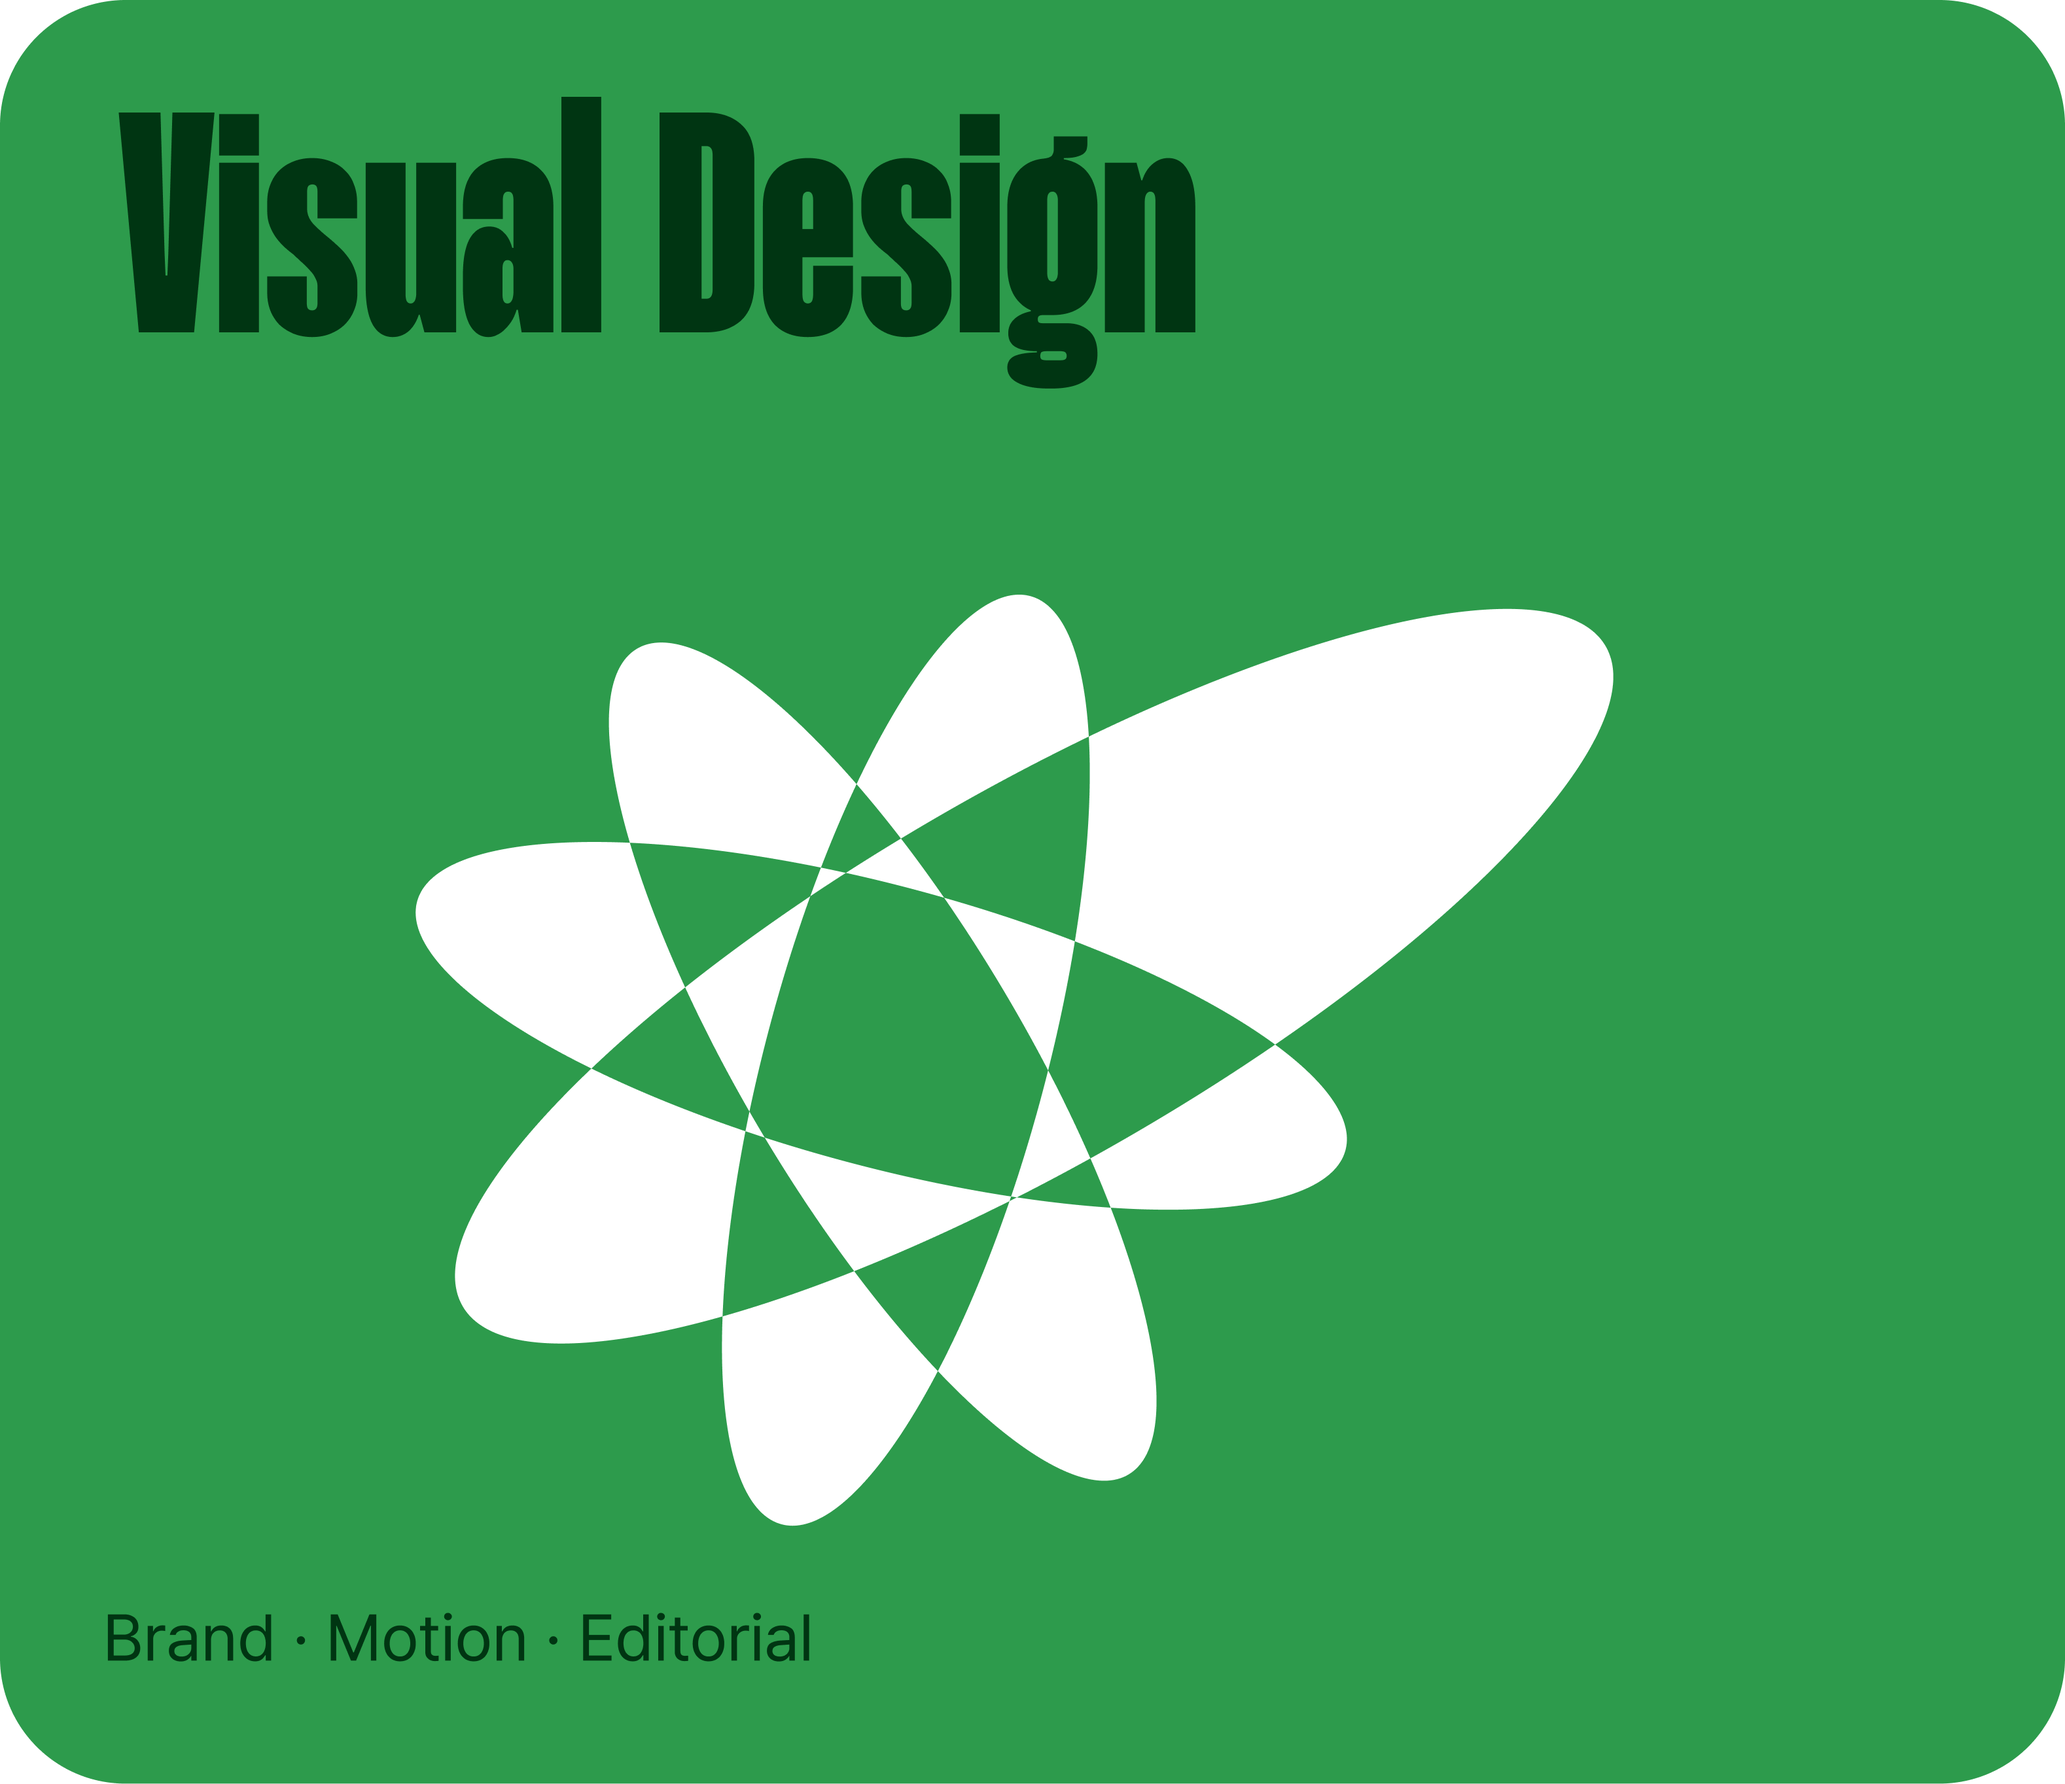
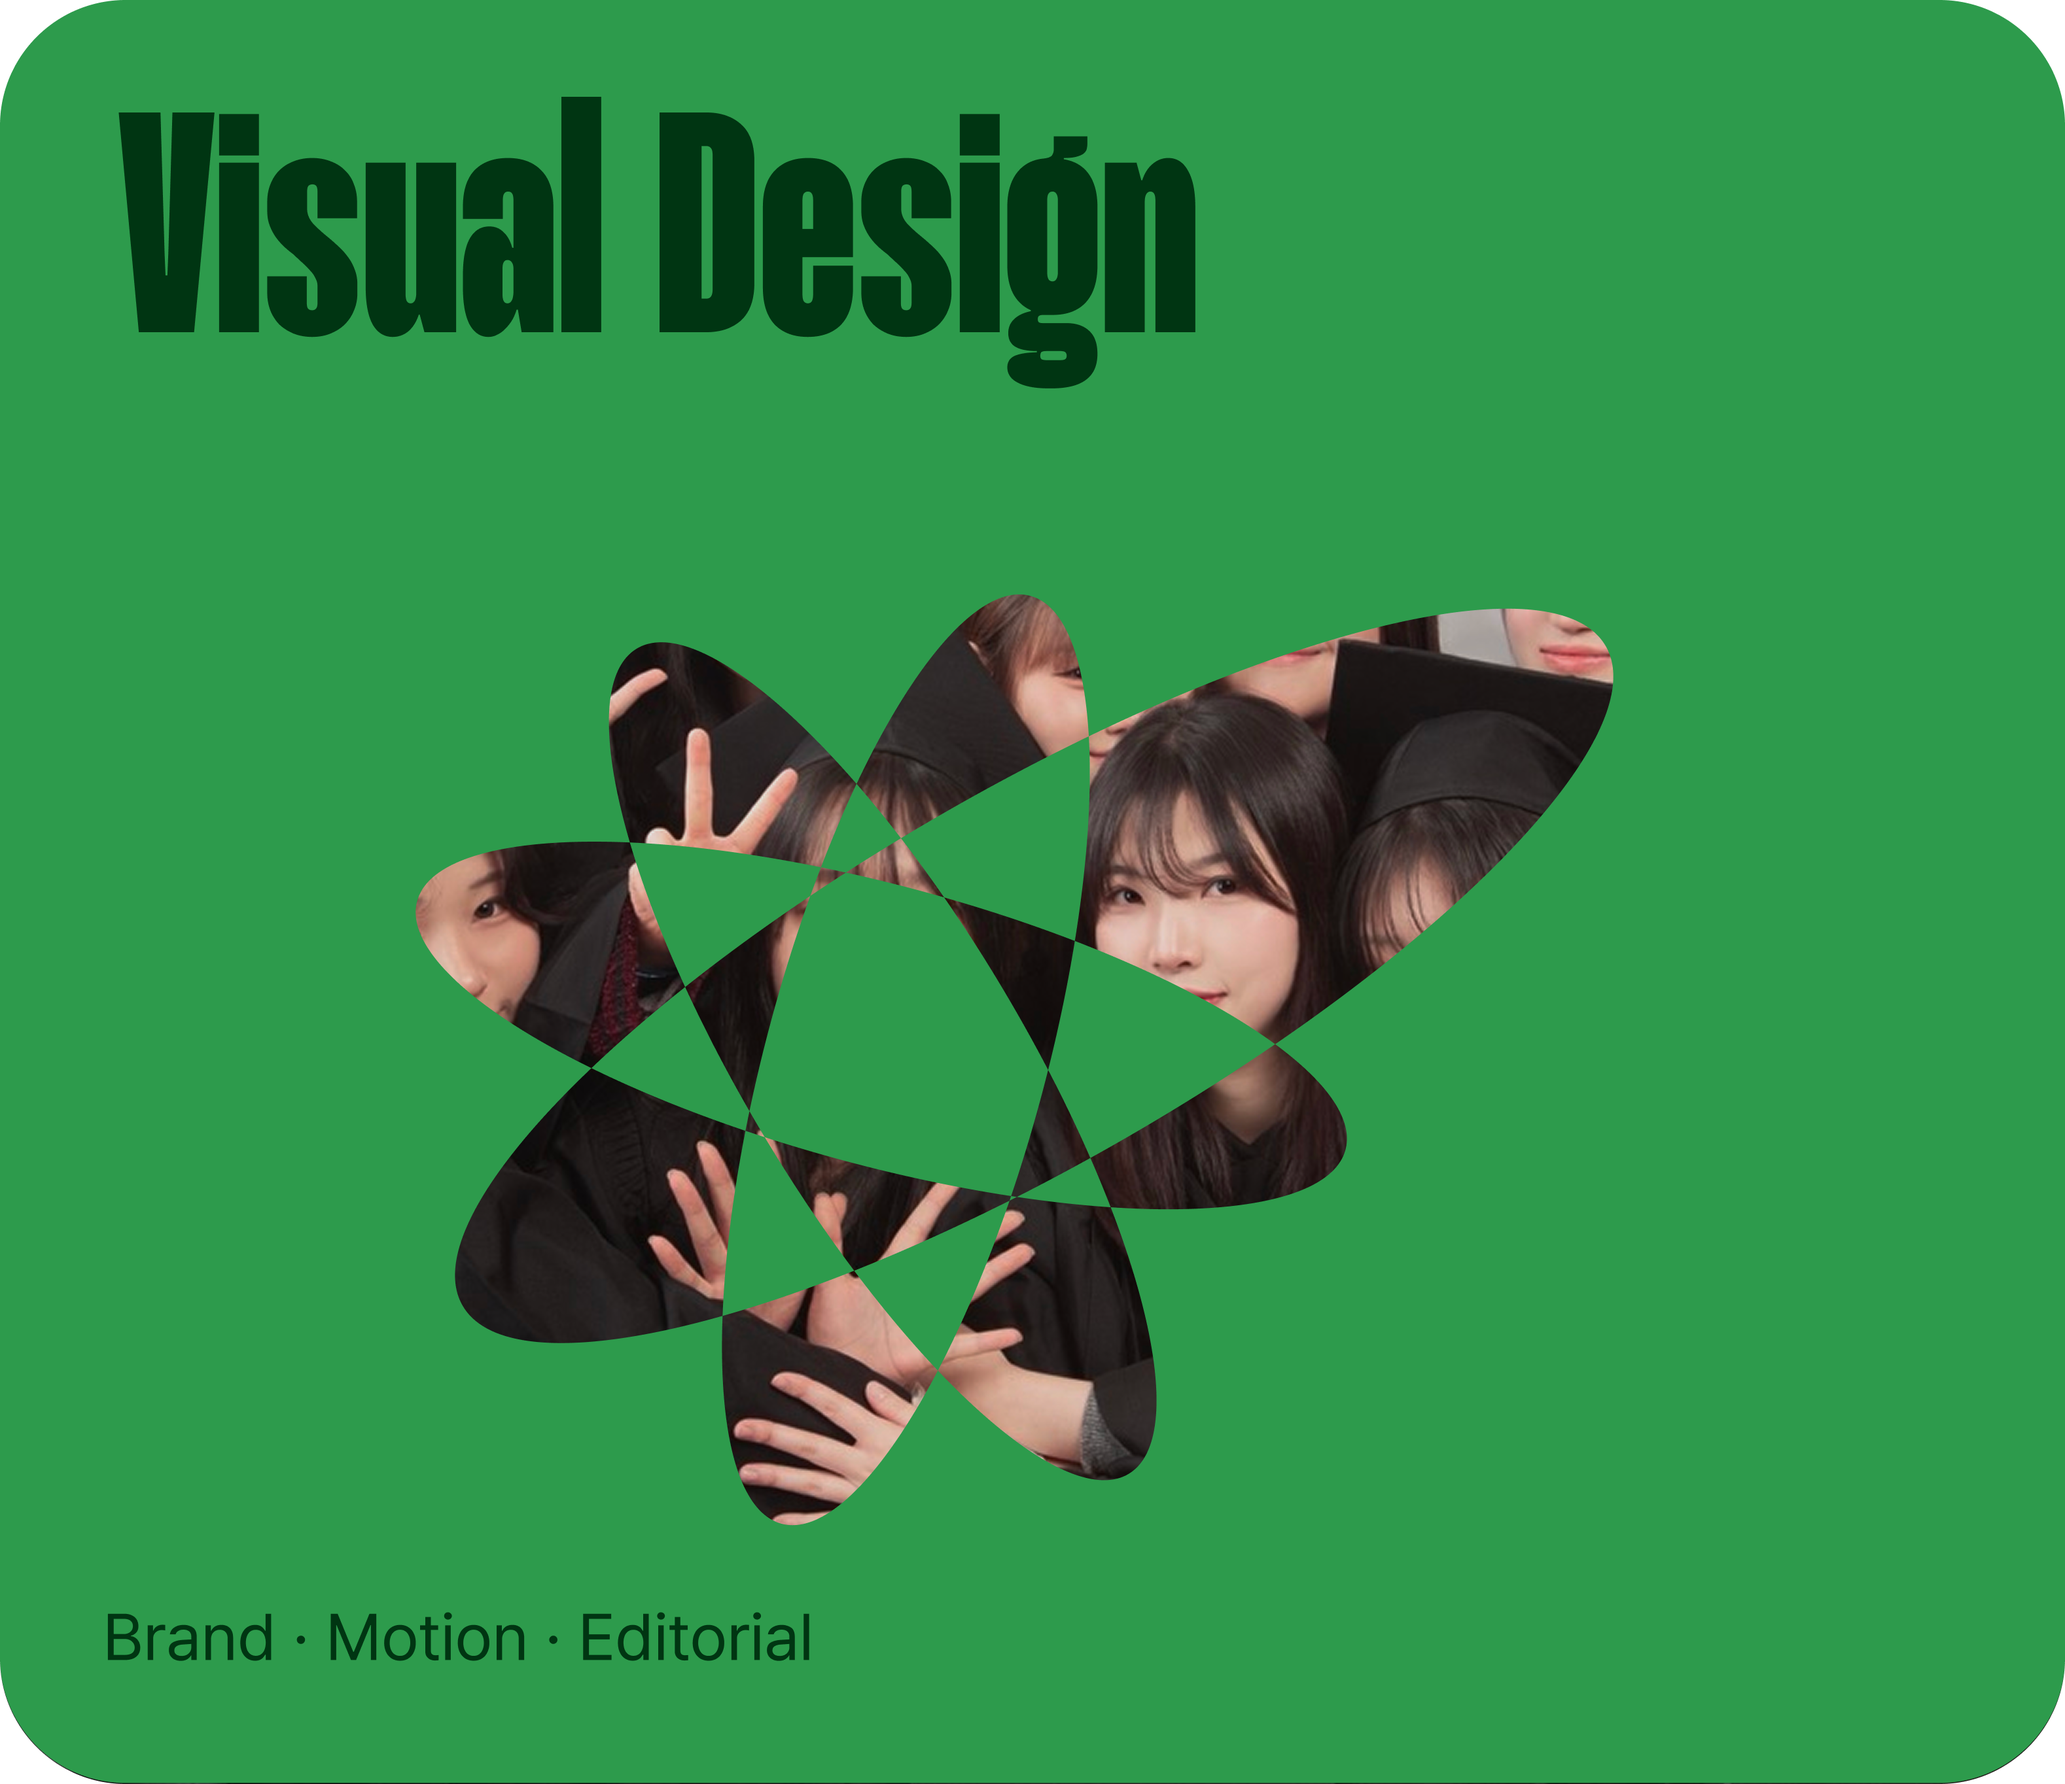
스티키,픽스헤더

Changed region(s): [[0.1863, 0.3117, 0.8074, 0.8728], [0.0311, 0.9974, 0.9626, 1.0]]

diff --git a/css/style.css b/css/style.css
@@ -215,41 +215,56 @@ body {
 
 
 /* about */
-.about {color: #fff; padding: 200px 0;}
-.about-sticky { height: calc(100vh * 3); position: relative;}
-.about-title {position: sticky; top: 80px; font-family: 'Inter', sans-serif; font-size: 120px; font-variation-settings: "wght" 100; color: #2D9B4C; text-align: end; transition: font-variation-settings 0.5s ease; z-index: 10; background: #161616;}
+.about {position: relative; overflow: visible; color: #fff; background: #161616; padding: 200px 0;}
+.about-title {position: sticky; top: 300px; font-family: 'Inter', sans-serif; font-size: 120px; font-variation-settings: "wght" 100; color: #2D9B4C; text-align: end; transition: font-variation-settings 0.5s ease; z-index: 10; background: none;}
 
+.fixed-title {
+  position: fixed;
+  top: 300px;
+  right: 15%;
+  text-align: end;
+  z-index: 50;
+  font-variation-settings: "wght" 900;
+
+}
+
+.about .about-sticky {position: relative; height: 200vh;}
 
 .about-item {
-  position: sticky;
-  top: 0;
-  height: 100vh;
-  display: flex;
-  justify-content: space-between;
-  align-items: center;
-  gap: 60px;
-  transition: all 0.8s ease;
-  background: #161616;
-}
-
-.about-item:nth-child(1) {z-index: 3;}
-
-.about-item:nth-child(2) {z-index: 2;}
-
-.about-item:nth-child(3) {z-index: 1;}
-
-.about-img{
-  position: relative;
+  position: absolute;
+  top: 30px;
+  left: 0;
   width: 100%;
-  max-width: 700px;
-  overflow: hidden;
+  display: flex;
+  align-items: center;
+  justify-content: center;
+  gap: 80px;
+  transform: translateY(200px);
+  opacity: 0;
+  transition: all 0.8s ease;
+  z-index: 1;
 }
 
-.about-img img {
-  width: 700px;
-  display: block;
-  border-radius: 20px;
+.about-item.active {
+  transform: translateY(200px);
+  opacity: 1;
+  z-index: 10;
 }
+
+.about-item.dimmed {
+  filter: brightness(0.3);
+  z-index: 5;
+}
+
+.about-img {width: 1000px; margin-bottom: 20px; position: relative;}
+.about-img img {width: 100%; display: block;}
+.about-img .img-hover {position: absolute; top: 0; left: 0; width: 100%; height: 100%; opacity: 0; transition: 0.5s;}
+.about-img:hover .img-hover {opacity: 1;}
+
+
+.about-text {max-width: 800px;}
+.about-text h3 {font-size: 28px; margin-bottom: 10px;}
+.about-text p {font-size: 18px; line-height: 1.6;}
 
 .img-hover {
   position: absolute;
@@ -263,26 +278,7 @@ body {
   opacity: 1;
 }
 
-.about-text{
-text-align: end;
-}
 
-.about-text h3 {
-  display: inline-block;
-  font-weight: bold;
-  font-size: 20px;
-  color: #2D9B4C;
-  border-bottom: 2px solid #2D9B4C;
-  padding-bottom: 3px;
-  margin-bottom: 20px;
-}
-
-.about-text p {
-  font-size: 18px;
-  line-height: 1.6;
-  color: #aaa;
-  max-width: 556px;
-}
 
 @keyframes testWeight {
   0%   { font-variation-settings: "wght" 100; }

diff --git a/index.html b/index.html
@@ -68,8 +68,8 @@
             <div class="about-sticky">
                 <div class="about-item item1">
                     <div class="about-img">
-                        <img src="img/item1.png" alt="졸업사진">
-                        <img src="img/item1-cover.png" alt="호버 이미지" class="img-hover">
+                        <img src="img/item1.png" alt="호버 이미지" class="img-hover">
+                        <img src="img/item1-cover.png" alt="졸업">
                     </div>
                     <div class="about-text">
                         <h3>인덕대학교 시각디자인 전문학사</h3>
@@ -83,8 +83,8 @@
 
                 <div class="about-item item2">
                     <div class="about-img">
-                        <img src="img/item2.png" alt="학원">
-                        <img src="img/item2-cover.png" alt="호버 이미지" class="img-hover">
+                        <img src="img/item2.png" alt="호버 이미지" class="img-hover">
+                        <img src="img/item2-cover.png" alt="학원">
                     </div>
                     <div class="about-text">
                         <h3>강남 이젠아카데미 프론트엔드 부트캠프 수료</h3>
@@ -95,8 +95,10 @@
 
                 <div class="about-item item3">
                     <div class="about-img">
-                        <img src="img/item1.png" alt="경력">
-                        <img src="img/item3-cover.png" alt="호버 이미지" class="img-hover">
+                        <img src="img/item1.png" alt="호버 이미지" class="img-hover">
+                        <img src="img/item3-cover.png" alt="경력">
+                        
+                        
                     </div>
                     <div class="about-text">
                         <h3>관세법인 수출통관 직무경험</h3>

diff --git a/js/script.js b/js/script.js
@@ -146,16 +146,56 @@ gsap.to(".bigName", {
         ease: "power1.out"
     });
 
-    // ABOUT
-    gsap.to(".about-title", {
-      scrollTrigger: {
-        trigger: ".about-title",
-        start: "top bottom",    // 아래에서부터 시작해서
-        end: "top 50%",         // 고정 시작 직전까지 굵어짐
-        scrub: true
-      },
-      fontVariationSettings: "'wght' 900"
-    });
+
+// 💥 About Me 타이틀 굵어지고 고정
+ScrollTrigger.create({
+  trigger: ".about-sticky",
+  start: "top top",
+  end: "50% top",
+  scrub: true,
+  onUpdate: (self) => {
+    const wght = 100 + Math.round(self.progress * 800); // 점점 굵어짐
+    document.querySelector(".about-title").style.fontVariationSettings = `"wght" ${wght}`;
+  },
+  onLeave: () => {
+    document.querySelector(".about-title").classList.add("fixed-title");
+  },
+  onLeaveBack: () => {
+    document.querySelector(".about-title").classList.remove("fixed-title");
+  }
+});
 
 
-    // 
+// 💥 카드 순차 등장 & 이전 카드 덮기
+gsap.registerPlugin(ScrollTrigger);
+
+const items = document.querySelectorAll(".about-item");
+
+items.forEach((item, index) => {
+  ScrollTrigger.create({
+    trigger: ".about-sticky",
+    start: `${10 + index * 35}% top`,
+    end: `${10 + (index + 1) * 100}% top`,
+    scrub: true,
+    onUpdate: (self) => {
+      items.forEach((el, i) => {
+        el.classList.remove("active", "dimmed");
+
+        if (i < index) {
+          el.classList.add("dimmed");
+        } else if (i === index) {
+          el.classList.add("active");
+        }
+        // 👉 이후 카드들은 비활성
+      });
+    }
+  });
+});
+
+ScrollTrigger.create({
+  trigger: ".about-sticky",
+  start: "top top",
+  end: "bottom+=2000 top", // 필요한 만큼 길게
+  pin: ".about-sticky",
+  scrub: true,
+});
